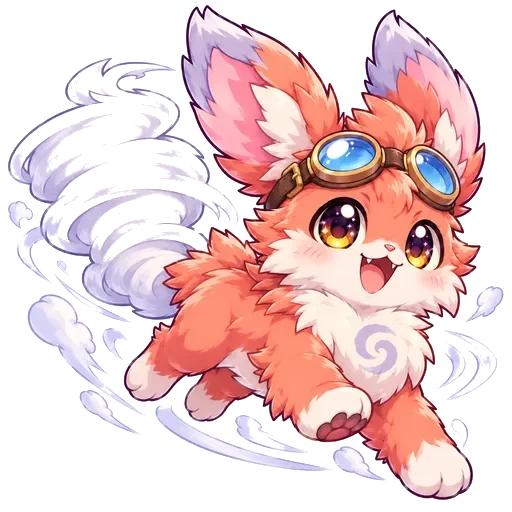
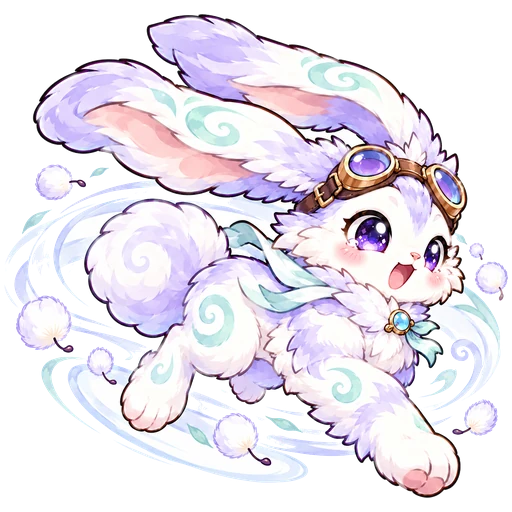
Neue Bilder für Brisi-Reihe, Salamandor, Sprössli und Papillora
Claude-Session: https://claude.ai/code/session_01TGn6EjRVc9B79essH2pvij

diff --git a/src/news.ts b/src/news.ts
@@ -14,7 +14,7 @@ export const NEWS: News[] = [
   { id: 9, title: 'Wochenrückblick', text: 'Zum Wochenstart seht ihr vor der Monsterwahl, was eure Monster letzte Woche geschafft haben: XP, Level, Entwicklungen und Aufgaben pro Element. Alle Wochen findet ihr in der Putzy-Pedia.' },
   { id: 10, title: 'Listen merken sich die Stelle', text: 'Nach dem Zurück aus einer Monsterreihe oder einer Aufgabe landet ihr wieder an derselben Stelle der Liste. Auf schmalen Handys sind jetzt beide Monster auf der Startseite ganz zu sehen.' },
   { id: 11, title: 'Mehr im Pedia', text: 'Jede Stufe hat jetzt ihren eigenen Pedia-Eintrag, und der Steckbrief verrät, wie groß ein Monster im Vergleich wirklich ist. Ab Level 5 stehen dort außerdem eure Werte: Lieblingsaufgabe, dabei seit und Rekordwoche.' },
-  { id: 12, title: 'Neue Namen und Bilder', text: 'Funkel heißt jetzt Glitzi und Fluffi heißt Brisi, damit sie nicht mehr mit Funki und Flausch verwechselt werden. Infernyx ist jetzt ein Feuerfuchs, und einige Pedia-Einträge haben neue Texte, damit sich die Monster weniger wiederholen.' },
+  { id: 12, title: 'Neue Namen und Bilder', text: 'Funkel heißt jetzt Glitzi und Fluffi heißt Brisi, damit sie nicht mehr mit Funki und Flausch verwechselt werden. Infernyx ist jetzt ein Feuerfuchs, die Reihe von Brisi besteht aus Windhasen, und Salamandor, Sprössli und Papillora haben neue Bilder. Einige Pedia-Einträge haben neue Texte, damit sich die Monster weniger wiederholen.' },
 ]
 
 export const LATEST_NEWS = Math.max(0, ...NEWS.map((n) => n.id))

diff --git a/src/pedia.ts b/src/pedia.ts
@@ -143,7 +143,7 @@ export const PEDIA: Record<string, Entry> = {
     ],
     likes: 'Pfannkuchen-Sonntage, ein aufgeräumter Gewürzschrank',
     dislikes: 'Kühlschranktüren, die offen stehen, angebrannte Pfannen',
-    legend: 'Salamandor trägt eine Kochmütze aus Rauch, die nie verweht. Es heißt, wer in seiner Gegenwart die Pfanne gleich spült, dem brennt nie wieder etwas an, nicht einmal Milch.',
+    legend: 'Salamandor trägt eine Kochmütze, die noch nie einen Fleck abbekommen hat. Es heißt, wer in seiner Gegenwart die Pfanne gleich spült, dem brennt nie wieder etwas an, nicht einmal Milch.',
   },
   '10': {
     sizes: ['0,1 m', '0,5 m', '1,4 m', '8,0 m'],
